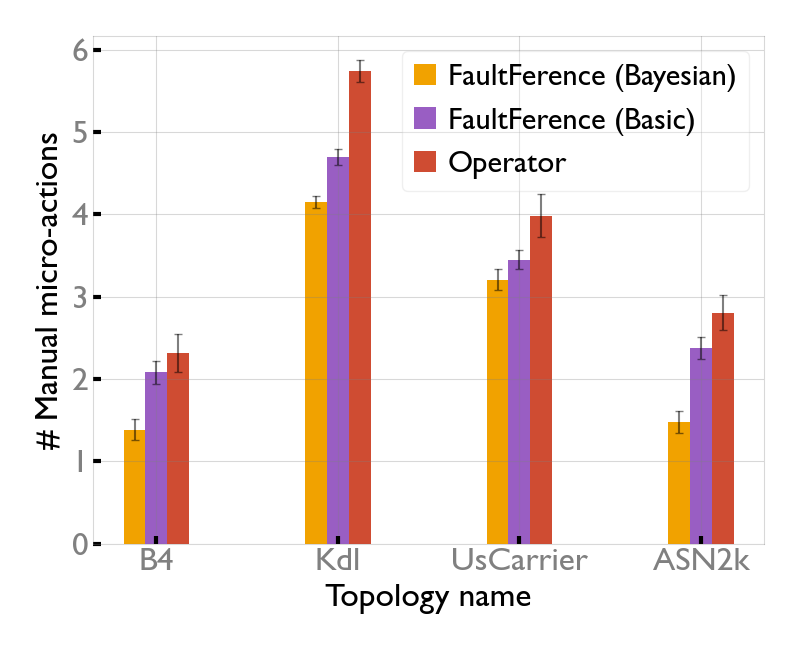
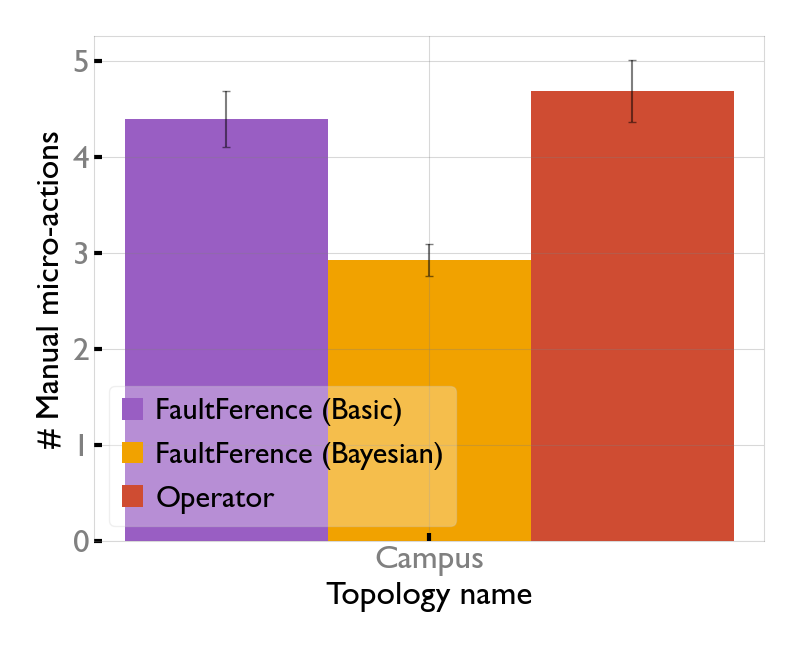
some changes before pull

diff --git a/plots/sweep-wan.py b/plots/sweep-wan.py
@@ -11,10 +11,10 @@ import matplotlib.font_manager as fm
 
 log_path = sys.argv[1]
 START_INDEX = 1
-ITERATIONS = 200
+ITERATIONS = 100
 MAX_NUM_STEPS = 250 # This is useful while calculating the average equivalent device size per step
-TOPOLOGIES = ["B4", "Kdl", "UsC" , "ASN2k"]
-TOPOLOGIES_NAMES = ["B4", "Kdl", "UsCarrier" , "ASN2k"]
+TOPOLOGIES = ["campus"] #["B4", "Kdl", "UsC" , "ASN2k"]
+TOPOLOGIES_NAMES = ["Production Topology"] #["B4", "Kdl", "UsCarrier" , "ASN2k"]
 
 PLOT_MAPPING = {
     "Intelligent": {
@@ -103,7 +103,7 @@ for topology in TOPOLOGIES:
 
                 # We noticed that processes got killed sometimes due to memory constraints - here's a check for that.
                 logs = open(os.path.join(inference_path, "logs")).read()
-                if "Killed" in logs:
+                if "Killed" in logs :
                     print("WARNING:", topology, iter_string, inference_scheme, sequence_scheme, "- some iterations were killed in this run")
                     continue
                 num_steps = int(open(os.path.join(inference_path, "num_steps")).read())
@@ -139,7 +139,7 @@ for topology in TOPOLOGIES:
                         PRECISION[sequence_scheme][inference_scheme][topology].append(0)
                         RECALL[sequence_scheme][inference_scheme][topology].append(0)
 
-                ALL_STEPS[sequence_scheme][inference_scheme][topology].append(num_steps) # + ((last_devices+1)//2)
+                ALL_STEPS[sequence_scheme][inference_scheme][topology].append(num_steps + ((last_devices+1)//2))
                 LAST_DEVICES[sequence_scheme][inference_scheme][topology].append(last_devices)
                 ALL_DEVICE_SIZES[sequence_scheme][inference_scheme].append(all_devices_sizes)
 
@@ -162,7 +162,7 @@ fm.fontManager.addfont("./gillsans.ttf")
 matplotlib.rcParams.update({'font.size': 24, 'font.family': "GillSans"})
 
 # Plot 1 specific code starts
-fig = plt.figure(figsize=(8, 6.5))
+fig = plt.figure(figsize=(8, 6))
 ax = plt.subplot(1, 1, 1)
 i = 0
 
@@ -197,16 +197,17 @@ for sequence_scheme in AVG_STEPS:
         i +=1
 
 # ax.set_xlabel('Degree')
-ax.set_xlabel("Topology name") #, alpha = 0.5)
-ax.set_ylabel('# Manual micro-actions') #, alpha = 0.5)
+ax.set_xlabel("") #, alpha = 0.5)
+ax.set_ylabel('# Manual micro-actions', fontsize=36) #, alpha = 0.5)
 
 # ax.set_xticks([10, 12, 14, 16, 18, 20]) # Topology degree
 # ax.set_xticks([100, 200, 300, 400, 500]) # Number of switches
 ax.set_xticks(topo_x_axis)
-ax.set_xticklabels(TOPOLOGIES_NAMES) # Number of hosts
+ax.set_xticklabels(TOPOLOGIES_NAMES, fontsize=36) # Number of hosts
 
 # ax.set_yticklabels(["", 10, 20, 30, 40]) # For ft
 # ax.set_yticks([0, 10, 20, 30, 40]) # For ft
+ax.set_yticklabels([0, 1, 2, 3, 4, 5], fontsize=36)
 
 ax.tick_params(axis="both", direction="in", labelcolor="grey", width=3, length=6)
 
@@ -221,9 +222,9 @@ ax.spines["left"].set(color="grey", alpha=0.3)
 ax.spines["right"].set(color="grey", alpha=0.3)
 
 plt.tight_layout()
-legend = plt.legend(fontsize="22", markerscale=0.7, handlelength=0.7, handletextpad=0.4, framealpha=0.3)
+legend = plt.legend(fontsize="40", markerscale=0.7, handlelength=0.7, handletextpad=0.4, framealpha=0.3)
 
-plt.savefig("figures/steps-WAN.png")
+# plt.savefig("figures/steps-WAN.png")
 plt.savefig("figures/steps-WAN.pdf")
 
 # Plot 1 specific code ends
